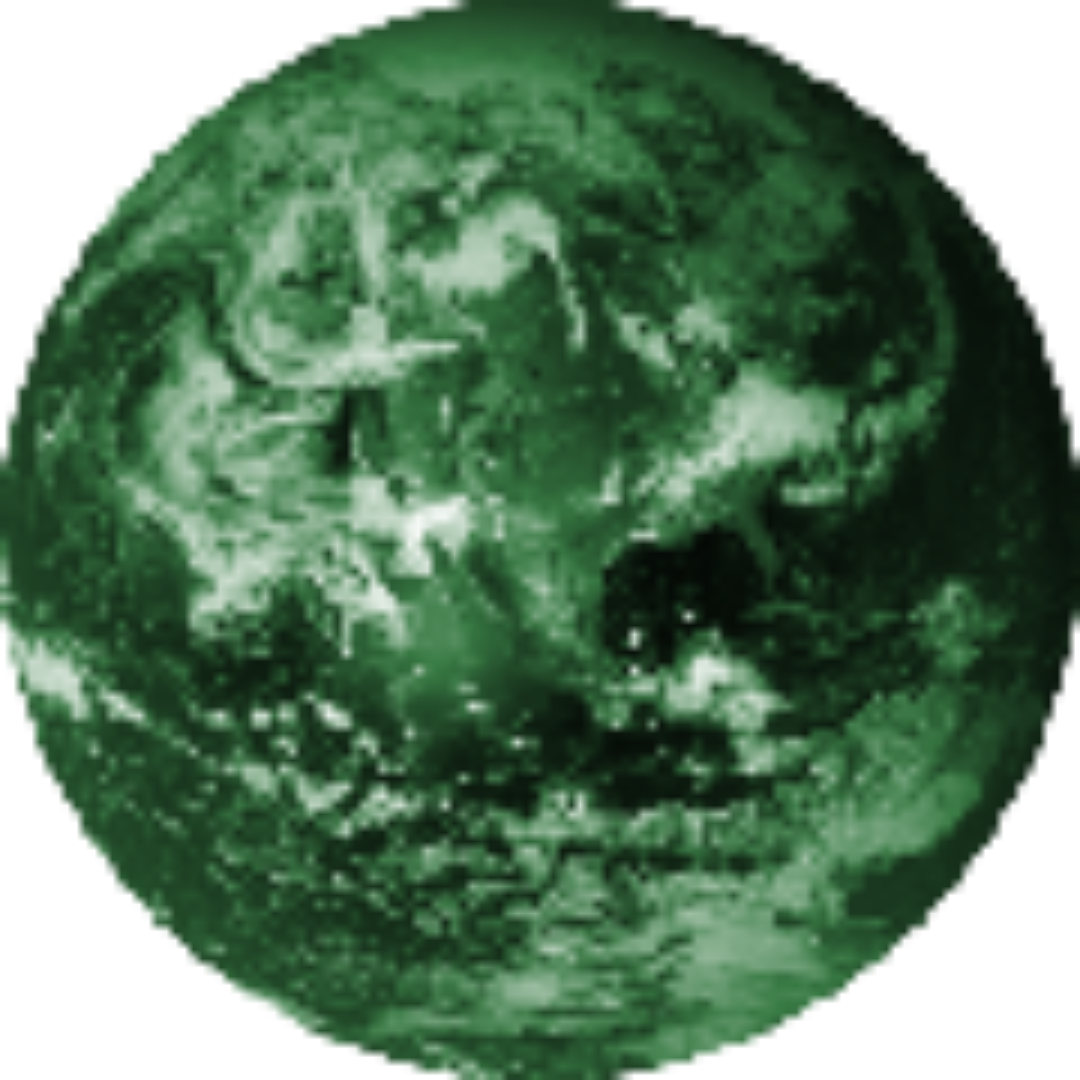
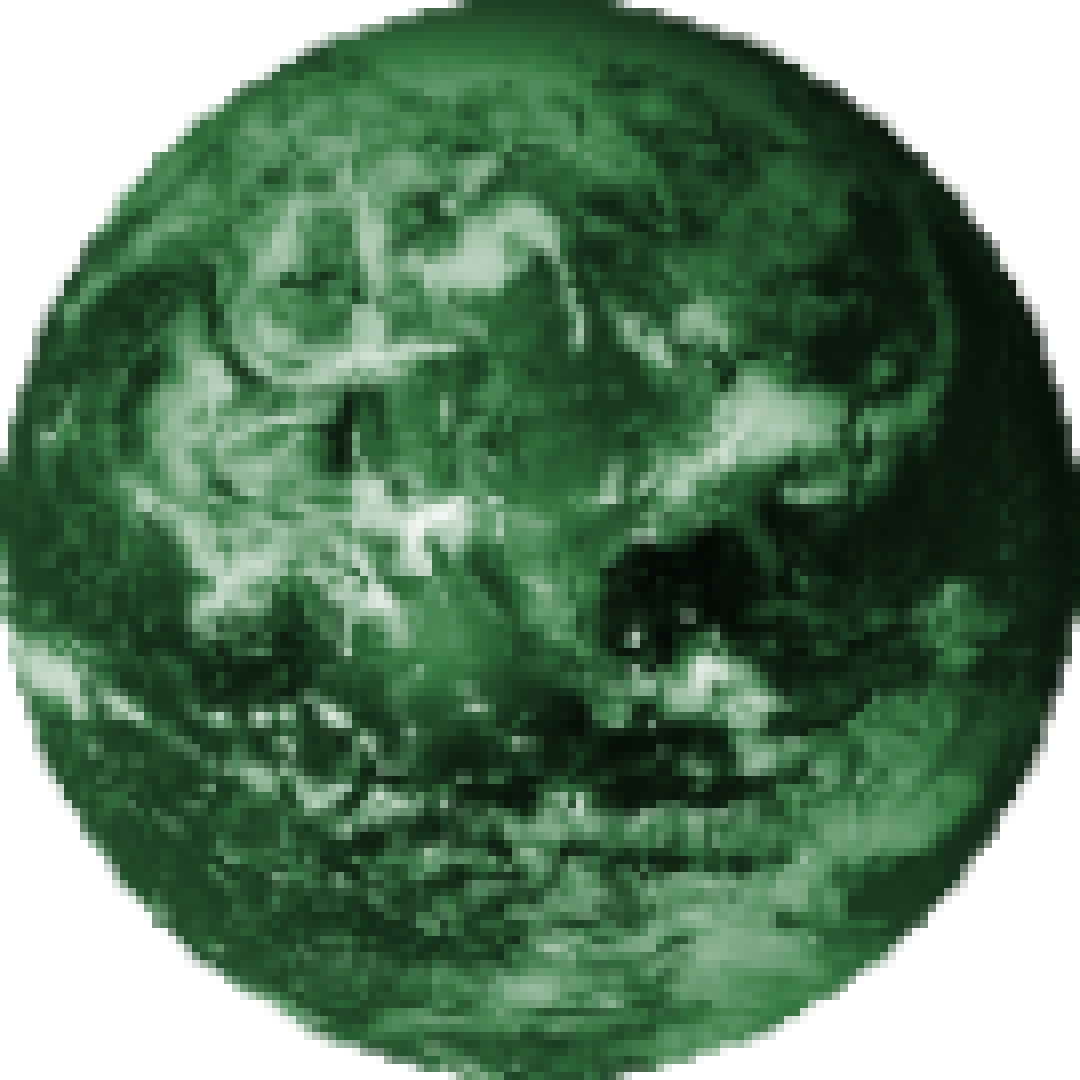
Movimentação correta implementada, S e D agora teleportam a nave de um planeta para outro, adicionado texturas para planetas diferentes, proximo passo sera tiros

diff --git a/core/src/main/java/io/github/cadu/entities/Player.java b/core/src/main/java/io/github/cadu/entities/Player.java
@@ -12,33 +12,52 @@ public class Player {
     private float x;
     private float y;
 
-    private float speed = 300;
+    private int currentPlanet = 1;
 
     private float width = 200;
     private float height = 200;
 
-    public Player() {
+    private Planet[] planets;
+
+    public Player(Planet[] planets) {
+
+        this.planets = planets;
 
         texturePl = new Texture("player.png");
 
-        x = 200;
-        y = 170;
+        updatePosition();
+    }
+
+    private void updatePosition() {
+
+        x = planets[currentPlanet].x + 60;
+        y = planets[currentPlanet].y + 70;
     }
 
     public void update(float delta) {
 
-        if(Gdx.input.isKeyPressed(Input.Keys.S)) {
-            x -= speed * delta;
+        if(Gdx.input.isKeyJustPressed(Input.Keys.S)) {
+
+            if(currentPlanet > 0) {
+                currentPlanet--;
+                updatePosition();
+            }
         }
 
-        if(Gdx.input.isKeyPressed(Input.Keys.D)) {
-            x += speed * delta;
+        if(Gdx.input.isKeyJustPressed(Input.Keys.D)) {
+
+            if(currentPlanet < 2) {
+                currentPlanet++;
+                updatePosition();
+            }
         }
     }
 
     public void render(SpriteBatch batch) {
         batch.draw(texturePl, x, y, width, height);
     }
-public void dispose() {
-    texturePl.dispose();
-}}
+
+    public void dispose() {
+        texturePl.dispose();
+    }
+}

diff --git a/core/src/main/java/io/github/cadu/screens/GameScreen.java b/core/src/main/java/io/github/cadu/screens/GameScreen.java
@@ -22,14 +22,13 @@ public class GameScreen implements Screen {
 
         batch = new SpriteBatch();
 
-        background = new Texture("bg.png");
-
-        player = new Player();
+        background = new Texture("bg.png"); 
 
         planets = new Planet[3];
-        planets[0] = new Planet(80, 150);  
-        planets[1] = new Planet(480, 150);
-        planets[2] = new Planet(880, 150);  
+        planets[0] = new Planet(80, 150, "planeta3.png");  
+        planets[1] = new Planet(480, 150, "planeta1.png");
+        planets[2] = new Planet(880, 150, "planeta2.png"); 
+        player = new Player(planets); 
     }
 
     @Override

diff --git a/core/src/main/java/io/github/cadu/entities/Planet.java b/core/src/main/java/io/github/cadu/entities/Planet.java
@@ -10,12 +10,12 @@ public class Planet {
 
     private Texture texture;
 
-    public Planet(float x, float y) {
+    public Planet(float x, float y, String textureName) {
 
         this.x = x;
         this.y = y;
 
-        texture = new Texture("planeta1.png");
+        texture = new Texture(textureName);
     }
 
     public void render(SpriteBatch batch) {